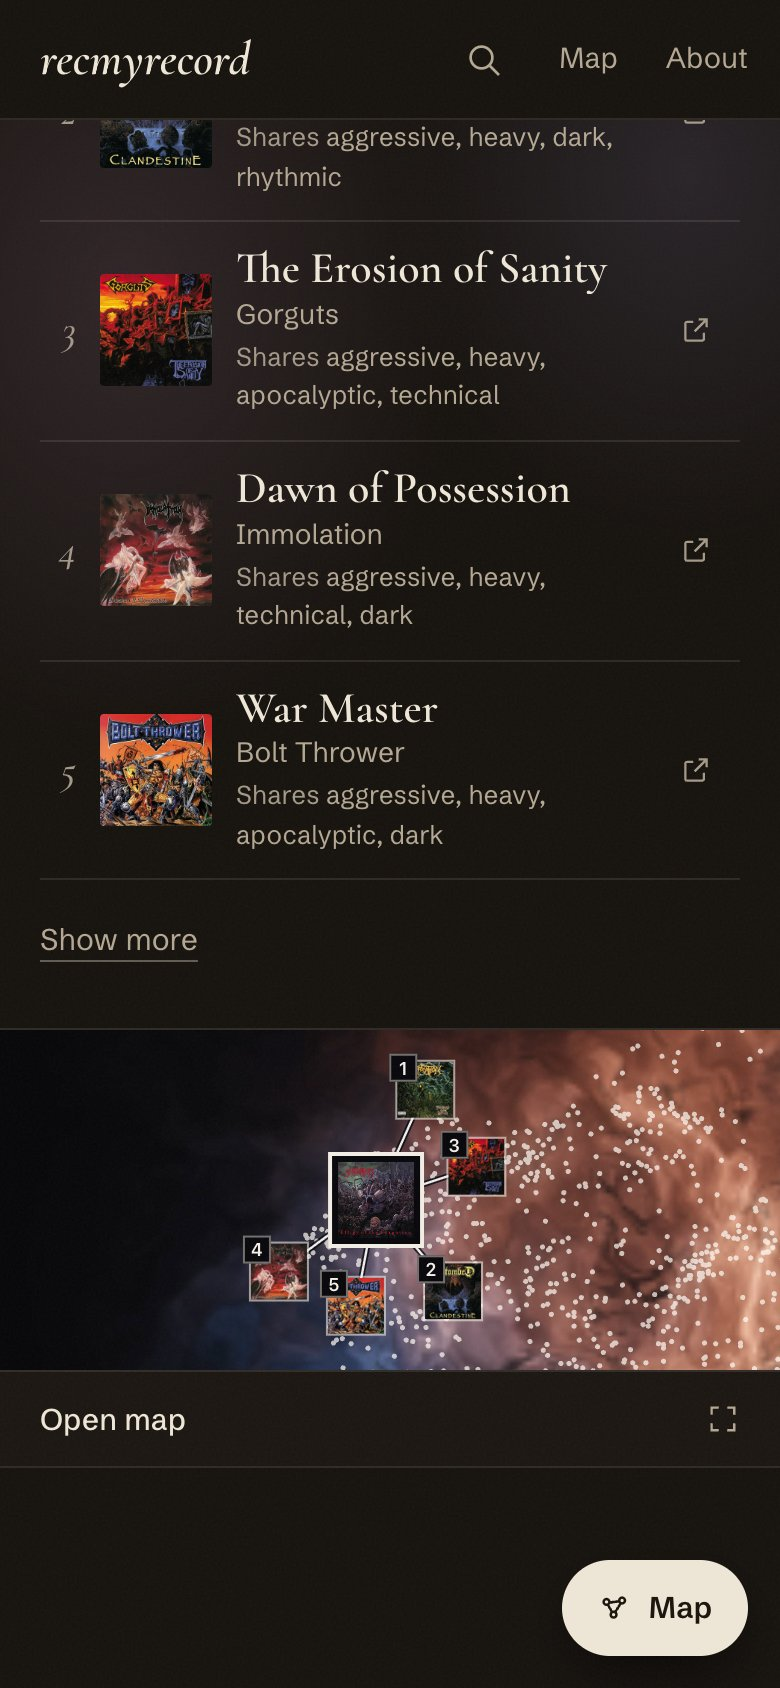
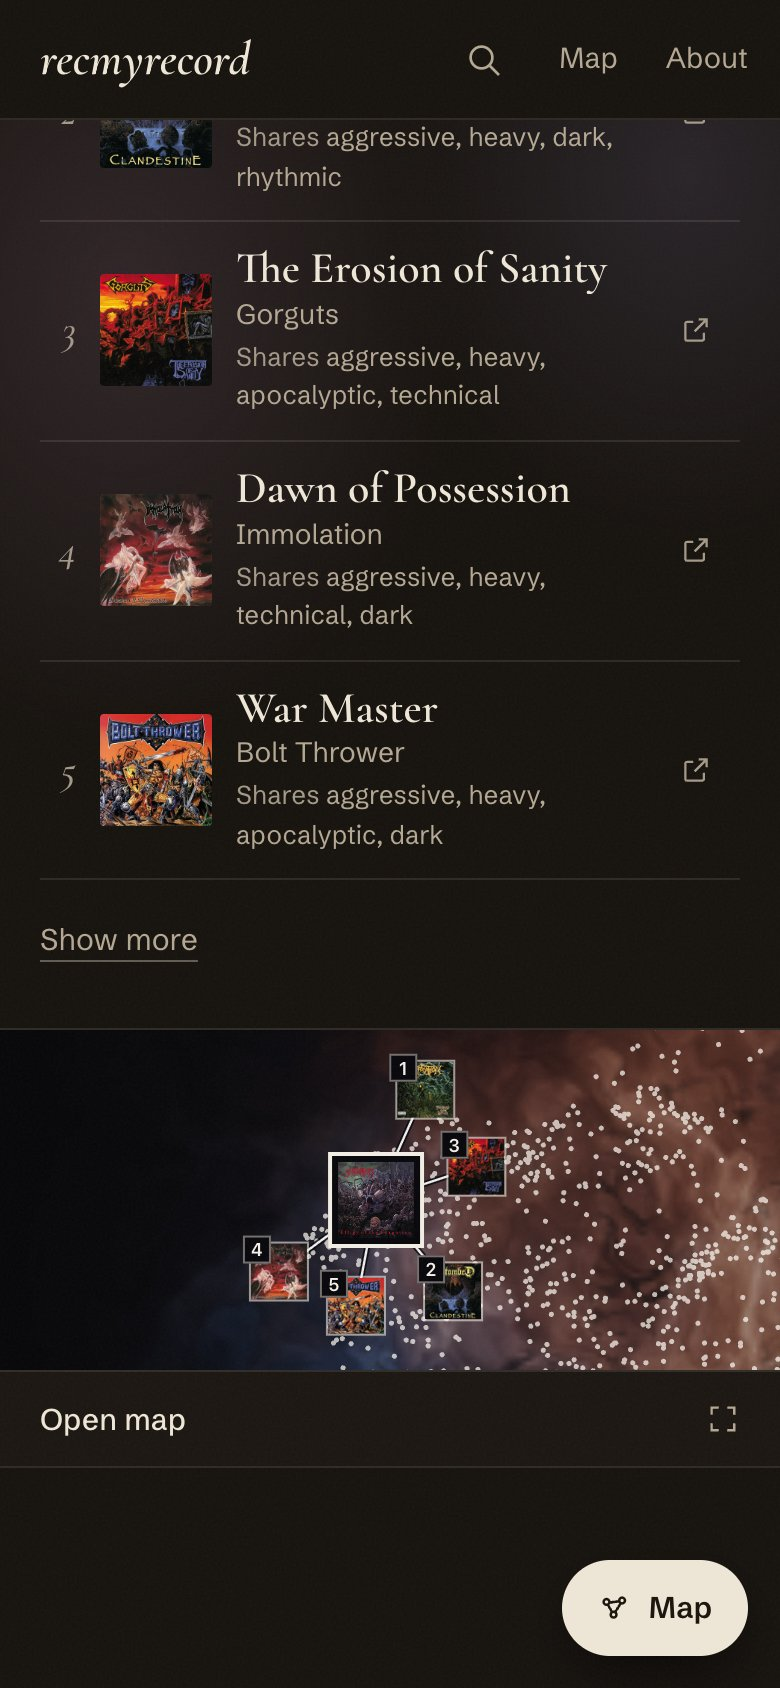
feat(theme): phone strip gas stepped back to 62 %, as the prototype's strip
The gas is drawn at STRIP_GAS_STRENGTH (0.62) so covers and stars stay the
subject on the brightest gas; only the gas draw is dimmed. Captures retaken,
plus a 100 % against 62 % comparison for the owner.

Refs #45

Changed region(s): [[0.4, 0.5853, 1.0, 0.8318]]

diff --git a/frontcreck/src/components/album/MapPreviewStrip.test.ts b/frontcreck/src/components/album/MapPreviewStrip.test.ts
@@ -3,7 +3,7 @@ import { gasUrl } from '@/components/map/shaders/gas';
 import { FRAME_RGB, SKY_RGB, STAR_WHITE } from '@/components/map/theme';
 import { STOP_IDS } from '@/lib/types';
 import type { AlbumRecord } from '@/lib/types';
-import { drawStrip, gasCopySize, stripGasUrl } from './MapPreviewStrip';
+import { STRIP_GAS_STRENGTH, drawStrip, gasCopySize, stripGasUrl } from './MapPreviewStrip';
 
 const W: [string, string, string] = ['#222222', '#333333', '#d9a066'];
 const albums: AlbumRecord[] = Array.from({ length: 30 }, (_, i) => ({ slug: `a${i}`, t: `A${i}`, a: 'X', s: '', c: '', k: i % 8, d: [], w: W }));
@@ -46,9 +46,15 @@ describe('drawStrip', () => {
     expect(at).toBeLessThan(calls.findIndex((c) => c.startsWith('arc(')));
     // The image holds light only (black where there is no gas), so it is added to the sky, as the map's shader
     // does, and nothing after it is drawn that way.
-    expect(calls[at - 1]).toBe('globalCompositeOperation=lighter');
-    expect(calls[at + 1]).toBe('globalCompositeOperation=source-over');
+    expect(calls[at - 2]).toBe('globalCompositeOperation=lighter');
+    expect(calls[at + 2]).toBe('globalCompositeOperation=source-over');
     expect(count(calls, 'globalCompositeOperation=')).toBe(2);
+    // The gas is stepped back, as the map steps it back beside an open album: covers and stars are the subject.
+    // Only the gas is drawn at that strength; everything after it is at full alpha again.
+    expect(STRIP_GAS_STRENGTH).toBe(0.62);
+    expect(calls[at - 1]).toBe('globalAlpha=0.62');
+    expect(calls[at + 1]).toBe('globalAlpha=1');
+    expect(count(calls, 'globalAlpha=')).toBe(2);
   });
 
   it('uses the theme colours: star-white dots of one size, off-white frames, no cluster colours', () => {

diff --git a/frontcreck/src/components/album/MapPreviewStrip.tsx b/frontcreck/src/components/album/MapPreviewStrip.tsx
@@ -39,6 +39,9 @@ export interface StripGas {
 }
 /** The strip shows a small part of the 2048 px gas image, so it keeps a copy this long and lets the full decode go. */
 const GAS_PX = 512;
+/** How strongly the gas is drawn (the prototype's strip): stepped back, as the map steps it back beside an open
+ * album, so the covers and the stars stay the subject on the brightest gas too. */
+export const STRIP_GAS_STRENGTH = 0.62;
 /** The first gas image of a stop: the same name as shaders/gas.ts gasUrl(stop, hash), so the strip and the map share
  * one download. Written out here because gas.ts holds the gas shaders and belongs to the lazy map chunk
  * (MapPreviewStrip.test.ts keeps the two equal). Phones never use the sharper image. */
@@ -148,7 +151,9 @@ export function drawStrip(
     // sky, as the map's shader adds it; beyond the rectangle the sky fill stays.
     const [west, south, east, north] = gas.rect;
     ctx.globalCompositeOperation = 'lighter';
+    ctx.globalAlpha = STRIP_GAS_STRENGTH;
     ctx.drawImage(gas.image, sx(west), sy(north), (east - west) * k, (north - south) * k);
+    ctx.globalAlpha = 1;
     ctx.globalCompositeOperation = 'source-over';
   }
   ctx.beginPath();
